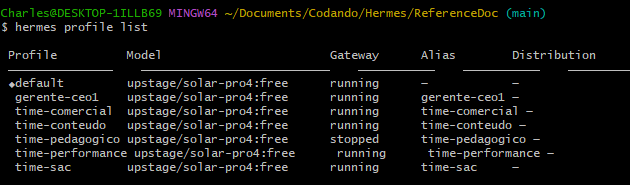
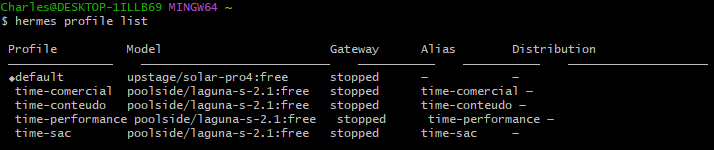
update

diff --git a/profile_identity_describe.md b/profile_identity_describe.md
@@ -2,12 +2,25 @@
 
 ## Entendendo a diferença entre "Identidade" e "Descrição"
 
-Quando criamos os profiles o proprio Hermes já se encarrega de criar tanto a **Identidade** (Personalidade) com a **Descrição** para o novo Agente (Profile). No caso da identidade, basicamente ele copía do profile **default** que é uma identidade genérica. Já para a descrição o Hermes presume a partir da analise do nome, mas nem sempre é realmente o que queremos. Portanto a melhor forma de termos controle sobre como o agente vai trabalhar é dando uma boa identidade e descrição de sua função, quase como a descrição de cargos e funções dentro de uma empresa.
+Quando criamos os profiles o proprio Hermes já se encarrega de criar tanto a **Identidade** (Personalidade/Identidade) como a **Descrição** para o novo Agente (Profile). No caso da identidade, basicamente ele copía do profile **default** que é uma identidade genérica. Já para a descrição o Hermes presume a partir da analise do nome, mas nem sempre é realmente o que queremos. Portanto a melhor forma de termos controle sobre como o agente vai trabalhar é dando uma boa identidade e descrição de sua função, quase como a descrição de cargos e funções dentro de uma empresa.
 
 Em um sistema multi-agente como o Hermes, um **Profile** é a configuração completa que define um agente.
 Ele possui dois componentes distintos que operam em níveis diferentes do sistema:
 
-### 1. Descrição (profile.yaml) — o que o agente *faz***
+### 1. Identidade (SOUL.md) — quem o agente *é***
+
+> [!TIP]
+> :brain: **Documentação oficial:**
+> [Identidade - SOUL.md](https://hermes-agent.nousresearch.com/docs/user-guide/features/personality)
+
+- É o conteúdo carregado como **slot #1 do system prompt**, ou seja, entra na janela de contexto do modelo a cada execução;
+- Define **comportamento interno**: personalidade, valores, instruções operacionais, limites, tom de voz e método de trabalho;
+- Responde à pergunta: *"como este agente pensa e age?"*;
+- Só é vista pelo **modelo de linguagem** — nem o orquestrador nem outros agentes a leem;
+- Formato: arquivo markdown livre (`~/.hermes/profiles/<profile_name>/SOUL.md`), sem limite prático de extensão;
+- Impacta diretamente a **qualidade da execução** das tarefas.
+
+### 2. Descrição (profile.yaml) — o que o agente *faz***
 
 > [!TIP]
 > :brain: **Documentação oficial:**
@@ -22,20 +35,6 @@ Ele possui dois componentes distintos que operam em níveis diferentes do sistem
 - Nunca entra no prompt do modelo — o agente não conhece a própria descrição;
 - Formato: arquivo yaml (`~/.hermes/profiles/<profile_name>/profile.yaml`), ideal que seja no máximo em 2 frases.
 - Impacta diretamente a **eficiência da delegação** de tarefas.
-
-### 2. Identidade (SOUL.md) — quem o agente *é***
-
-> [!TIP]
-> :brain: **Documentação oficial:**
-> [Identidade - SOUL.md](https://hermes-agent.nousresearch.com/docs/user-guide/features/personality)
-
-- É o conteúdo carregado como **slot #1 do system prompt**, ou seja, entra na janela de contexto do modelo a cada execução;
-- Define **comportamento interno**: personalidade, valores, instruções operacionais, limites, tom de voz e método de trabalho;
-- Responde à pergunta: *"como este agente pensa e age?"*;
-- Só é vista pelo **modelo de linguagem** — nem o orquestrador nem outros agentes a leem;
-- Formato: arquivo markdown livre (`~/.hermes/profiles/<profile_name>/SOUL.md`), sem limite prático de extensão;
-- Impacta diretamente a **qualidade da execução** das tarefas.
-
 
 | Arquivo | O que guarda |
 |---|---|

diff --git a/orquestrando_multi_agent-Telegram.md b/orquestrando_multi_agent-Telegram.md
@@ -9,11 +9,11 @@ Construir um projeto com 5 Agentes com um bot orquestrador das atividades, aplic
 Para a execução deste projeto é necessário ter os seguintes recursos:
 
 > [!IMPORTANT]
-> * Ter uma VPS (ideal para rodar 24/7) ou utilize o seu PC local (preferencialmente no Docker)  
-> * Hermes Agent instalado  
-> * Disponibilidade de algum modelo LLM da sua preferencia  
-> * Uma conta no Telegram para criarmos os bot (agentes)  
-> * Uma conta no Notion para registrarmos a execução do trabalho dos agentes  
+> 1_ Ter uma VPS (ideal para rodar 24/7) ou utilize o seu PC local (preferencialmente no Docker)
+> 2_ Hermes Agent instalado  
+> 3_ Disponibilidade de algum modelo LLM da sua preferencia  
+> 4_ Uma conta no Telegram para criarmos os bot (agentes)  
+> 5_ Uma conta no Notion para registrarmos a execução do trabalho dos agentes  
 
 ## Estrutura do Projeto
 
@@ -81,9 +81,9 @@ Agora podemos ver que o bot retornou o nosso nome de usuário **@username** e lo
 
 * Antes de proceguir vamos preencher uma tabela com os dados gerados, vamos precisar deles mais a frente para rodar o script de cadastro dos profiles dentro do Hermes.
 
-* Abra a planilha [dados_profiles.xlsx](./telegram/dados_profiles.xlsx):
+* Abra a planilha [referencias_profiles.xlsx](./telegram/referencias_profiles.xlsx):
 
-    ![planilha](./telegram/img/planilha.png)
+    ![planilha](./img/planilha.png)
 
 ### Step 2. Ciando os Bots no Telegram
 
@@ -93,7 +93,7 @@ Cada agente é um setor ou seja um departamento dentro de uma empresa
 1. Abra o telegram e pesquise por BotFather na aba **Apps**.
 
     ![bf1](./telegram/img/botfather.png)  
-  
+
 2. Clique em `Create a New Bot`.
 
     ![bf2](./telegram/img/botfather2.png)
@@ -104,7 +104,7 @@ Cada agente é um setor ou seja um departamento dentro de uma empresa
   
 Ao termino da criação de todos os agentes teremos uma planilha com os Tokens e o ID do Orquestrador (neste caso você com o nome de Agente CEO)
 
-![planilha2](./telegram/img/planilha1.png)
+![planilha2](./img/planilha1.png)
 
 Se selecionarmos a aba **Apps** no Telegram e depois clicar em **BotFather**, podemos ver que temos a seguinte estrutura de Bots
 

diff --git a/README.md b/README.md
@@ -1,6 +1,6 @@
 # HERMES AGENT  
 
-![banner](./img/banner.png)
+![banner](./img/banner2.png)
 
 ## EXEMPLO DE PROJETOS COM APLICAÇÃO REAL
 
